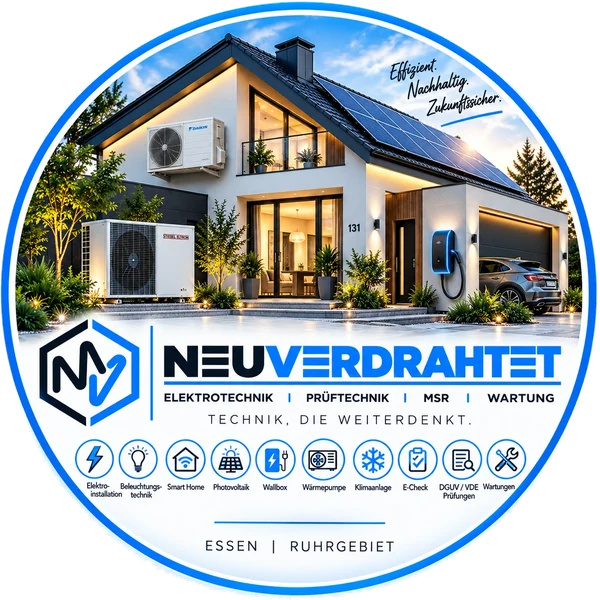
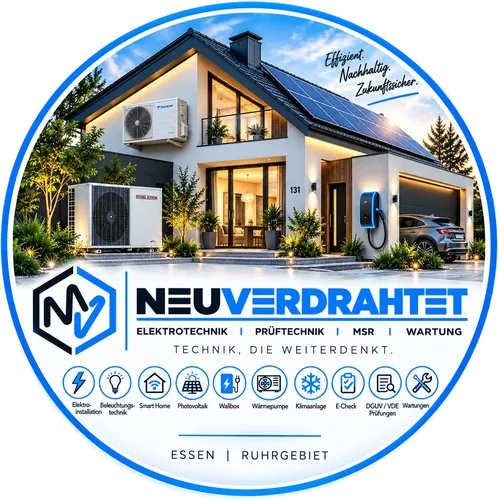
PageSpeed Insights: Accessibility 93 → 100 + Bild-Optimierung
Gegenprüfung per lokal laufendem Lighthouse (mobile) gegen den bereits
gemergten Stand ergab dieselben Werte wie der PageSpeed-Report (97/93/96/100).
Behoben:

- Farbkontrast: Cookie-Banner-Link "Datenschutzerklärung" nutzte --copper
  (3.17:1 auf dunklem Grund, WCAG AA braucht 4.5:1) — jetzt --orange-2 (5.99:1).
- Heading-Reihenfolge: hero-panel-Überschriften sprangen von h1 direkt zu h3
  (Wartung, Wärme & Klima, MSR, Prüftechnik-Detailseiten, E-Check) — jetzt h2.
  process-step-Überschriften sprangen von h2 zu h4 (Startseite, Geschäfts-/
  Privatkunden, Prüftechnik-Ablauf, Wärmepumpenwartung) — jetzt h3.
  wartungsvertraege.html hatte vor der Preistabelle (h3 je Karte) gar keine
  h2 — Section-Head "Wartungspakete im Überblick" ergänzt.
  Alle Fixes rein semantisch (h-Tag getauscht, CSS-Selektor mitgezogen) —
  keine optische Änderung.
- Bildauslieferung: neues Siegel von 600×600/106 KB auf 500×500/65 KB verkleinert
  und stärker komprimiert (Lighthouse-Audit: Est. savings 83 KiB → 42 KiB).

Ergebnis lokal verifiziert: Accessibility 93 → 100, Performance/Best
Practices/SEO unverändert bei 97/96/100 (verbleibende Performance-Punkte
betreffen HTTP-Cache-Lifetimes und Dokument-Latenz — Hosting-/Server-Ebene,
nicht per Repo-Dateien lösbar).

Claude-Session: https://claude.ai/code/session_017NiCRhzwhPUgWijeqj59Q5

diff --git a/assets/style-relaunch.css b/assets/style-relaunch.css
@@ -53,7 +53,7 @@ body { background: var(--paper); }
   display: flex; flex-direction: column; justify-content: center; gap: 14px;
 }
 .hero-panel .icon-badge { background: rgba(255,255,255,0.08); color: var(--orange-2); width: 56px; height: 56px; border-radius: 14px; display: flex; align-items: center; justify-content: center; }
-.hero-panel h3 { color: #fff; font-size: 20px; }
+.hero-panel h2 { color: #fff; font-size: 20px; }
 .hero-panel p { color: rgba(255,255,255,0.72); font-size: 14.5px; }
 
 .hub-grid { display: grid; grid-template-columns: repeat(3,1fr); gap: 18px; margin-top: 10px; }
@@ -74,7 +74,10 @@ body { background: var(--paper); }
 .process-row-n { display: grid; gap: 4px; margin-top: 32px; position: relative; }
 .process-step { position: relative; padding-top: 18px; }
 .process-step .num { font-family: var(--font-mono); font-size: 12px; color: var(--orange-2); letter-spacing: 0.05em; }
-.process-step h4 { font-size: 14.5px; margin: 8px 0 0; line-height: 1.3; }
+.process-step h3 { font-size: 14.5px; margin: 8px 0 0; line-height: 1.3; }
+/* WCAG AA-Fix: --copper hat auf dunklem Grund nur 3.17:1 Kontrast (braucht 4.5:1) —
+   betrifft global den Cookie-Banner-Link "Datenschutzerklärung" (assets/style.css). */
+.cookie-banner-inner a { color: var(--orange-2); }
 .process-row-n::before {
   content: ''; position: absolute; top: 6px; left: 3%; right: 3%; height: 1px;
   background: linear-gradient(90deg, var(--orange-2), transparent);
@@ -143,12 +146,21 @@ body { background: var(--paper); }
 .premium-card li { font-size: 13.5px; color: var(--ink-soft); }
 .premium-card .more { margin-top: auto; font-size: 13px; font-weight: 600; color: var(--orange-2); padding-top: 6px; }
 
+.elektro-row {
+  display: flex; align-items: center; justify-content: space-between; flex-wrap: wrap; gap: 16px;
+  margin-top: 20px; padding: 20px 26px;
+  background: var(--surface); border: 1px solid var(--line); border-radius: var(--radius);
+}
+.elektro-row .label { display: flex; align-items: center; gap: 12px; font-family: var(--font-display); font-weight: 600; font-size: 15.5px; }
+.elektro-row .tags { display: flex; flex-wrap: wrap; gap: 8px; }
+.elektro-row .tags span { font-family: var(--font-mono); font-size: 11.5px; color: var(--ink-soft); background: var(--surface-2); border-radius: 999px; padding: 4px 10px; }
+
 .process-row { display: grid; grid-template-columns: repeat(5,1fr); gap: 4px; margin-top: 32px; position: relative; }
 @media (max-width: 900px) { .process-row { grid-template-columns: 1fr 1fr; gap: 20px; } }
 @media (max-width: 560px) { .process-row { grid-template-columns: 1fr; } }
 .process-row .process-step { position: relative; padding-top: 18px; }
 .process-row .process-step .num { font-family: var(--font-mono); font-size: 12px; color: var(--orange-2); letter-spacing: 0.05em; }
-.process-row .process-step h4 { font-size: 15px; margin: 8px 0 0; }
+.process-row .process-step h3 { font-size: 15px; margin: 8px 0 0; }
 .process-row::before {
   content: ''; position: absolute; top: 6px; left: 5%; right: 5%; height: 1px;
   background: linear-gradient(90deg, var(--orange-2), transparent);

diff --git a/prueftechnik-maschinen.html b/prueftechnik-maschinen.html
@@ -427,7 +427,7 @@
       </div>
       <div class="hero-panel">
         <div class="icon-badge"><svg width="26" height="26" viewBox="0 0 24 24" fill="none"><circle cx="12" cy="12" r="3" stroke="currentColor" stroke-width="1.6"/><path d="M12 3v3M12 18v3M3 12h3M18 12h3M5.6 5.6l2.1 2.1M16.3 16.3l2.1 2.1M18.4 5.6l-2.1 2.1M7.7 16.3l-2.1 2.1" stroke="currentColor" stroke-width="1.6" stroke-linecap="round"/></svg></div>
-        <h3>Elektrische Sicherheit an der Maschine</h3>
+        <h2>Elektrische Sicherheit an der Maschine</h2>
         <p>Schutzmaßnahmen, Verdrahtung und Steuerung der elektrischen Ausrüstung im Blick.</p>
       </div>
     </div>
@@ -450,7 +450,7 @@
         <h2>Von der Bestandsaufnahme zur Wiederholungsprüfung</h2>
       </div>
       <div class="process-row-n" style="grid-template-columns:repeat(7,1fr);">
-        <div class="process-step"><span class="num">01</span><h4>Prüfbestand aufnehmen</h4></div><div class="process-step"><span class="num">02</span><h4>Prüfaufwand festlegen</h4></div><div class="process-step"><span class="num">03</span><h4>Termin planen</h4></div><div class="process-step"><span class="num">04</span><h4>Prüfung durchführen</h4></div><div class="process-step"><span class="num">05</span><h4>Ergebnisse dokumentieren</h4></div><div class="process-step"><span class="num">06</span><h4>Mängel ausweisen</h4></div><div class="process-step"><span class="num">07</span><h4>Wiederholungsprüfung planen</h4></div>
+        <div class="process-step"><span class="num">01</span><h3>Prüfbestand aufnehmen</h3></div><div class="process-step"><span class="num">02</span><h3>Prüfaufwand festlegen</h3></div><div class="process-step"><span class="num">03</span><h3>Termin planen</h3></div><div class="process-step"><span class="num">04</span><h3>Prüfung durchführen</h3></div><div class="process-step"><span class="num">05</span><h3>Ergebnisse dokumentieren</h3></div><div class="process-step"><span class="num">06</span><h3>Mängel ausweisen</h3></div><div class="process-step"><span class="num">07</span><h3>Wiederholungsprüfung planen</h3></div>
       </div>
       <style>@media (max-width:980px){ .process-row-n{ grid-template-columns:repeat(3,1fr) !important; gap:24px !important; } } @media (max-width:560px){ .process-row-n{ grid-template-columns:1fr !important; } }</style>
     </div>

diff --git a/prueftechnik-dguv-v3.html b/prueftechnik-dguv-v3.html
@@ -427,7 +427,7 @@
       </div>
       <div class="hero-panel">
         <div class="icon-badge"><svg width="26" height="26" viewBox="0 0 24 24" fill="none"><path d="M9 12.5 11 15l4.5-6" stroke="currentColor" stroke-width="1.6" stroke-linecap="round" stroke-linejoin="round"/><circle cx="12" cy="12" r="9" stroke="currentColor" stroke-width="1.6"/></svg></div>
-        <h3>Betreiberpflicht erfüllt</h3>
+        <h2>Betreiberpflicht erfüllt</h2>
         <p>Wiederkehrende Prüfung ortsfester und ortsveränderlicher elektrischer Anlagen, dokumentiert und terminlich im Griff.</p>
       </div>
     </div>
@@ -440,7 +440,7 @@
         <h2>Von der Bestandsaufnahme zur Wiederholungsprüfung</h2>
       </div>
       <div class="process-row-n" style="grid-template-columns:repeat(7,1fr);">
-        <div class="process-step"><span class="num">01</span><h4>Prüfbestand aufnehmen</h4></div><div class="process-step"><span class="num">02</span><h4>Prüfaufwand festlegen</h4></div><div class="process-step"><span class="num">03</span><h4>Termin planen</h4></div><div class="process-step"><span class="num">04</span><h4>Prüfung durchführen</h4></div><div class="process-step"><span class="num">05</span><h4>Ergebnisse dokumentieren</h4></div><div class="process-step"><span class="num">06</span><h4>Mängel ausweisen</h4></div><div class="process-step"><span class="num">07</span><h4>Wiederholungsprüfung planen</h4></div>
+        <div class="process-step"><span class="num">01</span><h3>Prüfbestand aufnehmen</h3></div><div class="process-step"><span class="num">02</span><h3>Prüfaufwand festlegen</h3></div><div class="process-step"><span class="num">03</span><h3>Termin planen</h3></div><div class="process-step"><span class="num">04</span><h3>Prüfung durchführen</h3></div><div class="process-step"><span class="num">05</span><h3>Ergebnisse dokumentieren</h3></div><div class="process-step"><span class="num">06</span><h3>Mängel ausweisen</h3></div><div class="process-step"><span class="num">07</span><h3>Wiederholungsprüfung planen</h3></div>
       </div>
       <style>@media (max-width:980px){ .process-row-n{ grid-template-columns:repeat(3,1fr) !important; gap:24px !important; } } @media (max-width:560px){ .process-row-n{ grid-template-columns:1fr !important; } }</style>
     </div>

diff --git a/prueftechnik-ortsfeste-anlagen.html b/prueftechnik-ortsfeste-anlagen.html
@@ -427,7 +427,7 @@
       </div>
       <div class="hero-panel">
         <div class="icon-badge"><svg width="26" height="26" viewBox="0 0 24 24" fill="none"><rect x="4" y="4" width="16" height="16" rx="2" stroke="currentColor" stroke-width="1.6"/><path d="M8 9h8M8 13h5" stroke="currentColor" stroke-width="1.6" stroke-linecap="round"/></svg></div>
-        <h3>Fest installiert, regelmäßig geprüft</h3>
+        <h2>Fest installiert, regelmäßig geprüft</h2>
         <p>Verteilungen, Stromkreise, Steckdosen und Beleuchtungsanlagen im laufenden Betrieb sicher halten.</p>
       </div>
     </div>
@@ -450,7 +450,7 @@
         <h2>Von der Bestandsaufnahme zur Wiederholungsprüfung</h2>
       </div>
       <div class="process-row-n" style="grid-template-columns:repeat(7,1fr);">
-        <div class="process-step"><span class="num">01</span><h4>Prüfbestand aufnehmen</h4></div><div class="process-step"><span class="num">02</span><h4>Prüfaufwand festlegen</h4></div><div class="process-step"><span class="num">03</span><h4>Termin planen</h4></div><div class="process-step"><span class="num">04</span><h4>Prüfung durchführen</h4></div><div class="process-step"><span class="num">05</span><h4>Ergebnisse dokumentieren</h4></div><div class="process-step"><span class="num">06</span><h4>Mängel ausweisen</h4></div><div class="process-step"><span class="num">07</span><h4>Wiederholungsprüfung planen</h4></div>
+        <div class="process-step"><span class="num">01</span><h3>Prüfbestand aufnehmen</h3></div><div class="process-step"><span class="num">02</span><h3>Prüfaufwand festlegen</h3></div><div class="process-step"><span class="num">03</span><h3>Termin planen</h3></div><div class="process-step"><span class="num">04</span><h3>Prüfung durchführen</h3></div><div class="process-step"><span class="num">05</span><h3>Ergebnisse dokumentieren</h3></div><div class="process-step"><span class="num">06</span><h3>Mängel ausweisen</h3></div><div class="process-step"><span class="num">07</span><h3>Wiederholungsprüfung planen</h3></div>
       </div>
       <style>@media (max-width:980px){ .process-row-n{ grid-template-columns:repeat(3,1fr) !important; gap:24px !important; } } @media (max-width:560px){ .process-row-n{ grid-template-columns:1fr !important; } }</style>
     </div>

diff --git a/fehlerdiagnose.html b/fehlerdiagnose.html
@@ -427,7 +427,7 @@
       </div>
       <div class="hero-panel">
         <div class="icon-badge"><svg width="26" height="26" viewBox="0 0 24 24" fill="none"><path d="M11 2a9 9 0 1 0 6.32 15.44L21 21M11 7v4l3 2" stroke="currentColor" stroke-width="1.6" stroke-linecap="round" stroke-linejoin="round"/></svg></div>
-        <h3>Ursache statt Symptom</h3>
+        <h2>Ursache statt Symptom</h2>
         <p>Strukturierte Fehlersuche auf der elektrischen und regelungstechnischen Seite der Anlage.</p>
       </div>
     </div>
@@ -440,7 +440,7 @@
         <h2>Von der Meldung zur dokumentierten Ursache</h2>
       </div>
       <div class="process-row-n" style="grid-template-columns:repeat(7,1fr);">
-        <div class="process-step"><span class="num">01</span><h4>Störungsmeldung aufnehmen</h4></div><div class="process-step"><span class="num">02</span><h4>Erstdiagnose vor Ort</h4></div><div class="process-step"><span class="num">03</span><h4>Systematische Fehlersuche</h4></div><div class="process-step"><span class="num">04</span><h4>Ursache eingrenzen</h4></div><div class="process-step"><span class="num">05</span><h4>Elektrische/regelungstechnische Prüfung</h4></div><div class="process-step"><span class="num">06</span><h4>Lösung umsetzen oder empfehlen</h4></div><div class="process-step"><span class="num">07</span><h4>Dokumentation & Rückmeldung</h4></div>
+        <div class="process-step"><span class="num">01</span><h3>Störungsmeldung aufnehmen</h3></div><div class="process-step"><span class="num">02</span><h3>Erstdiagnose vor Ort</h3></div><div class="process-step"><span class="num">03</span><h3>Systematische Fehlersuche</h3></div><div class="process-step"><span class="num">04</span><h3>Ursache eingrenzen</h3></div><div class="process-step"><span class="num">05</span><h3>Elektrische/regelungstechnische Prüfung</h3></div><div class="process-step"><span class="num">06</span><h3>Lösung umsetzen oder empfehlen</h3></div><div class="process-step"><span class="num">07</span><h3>Dokumentation & Rückmeldung</h3></div>
       </div>
       <style>@media (max-width:980px){ .process-row-n{ grid-template-columns:repeat(3,1fr) !important; gap:24px !important; } } @media (max-width:560px){ .process-row-n{ grid-template-columns:1fr !important; } }</style>
     </div>

diff --git a/prueftechnik-vde-pruefungen.html b/prueftechnik-vde-pruefungen.html
@@ -427,7 +427,7 @@
       </div>
       <div class="hero-panel">
         <div class="icon-badge"><svg width="26" height="26" viewBox="0 0 24 24" fill="none"><path d="M4 12h4l2-7 4 14 2-7h4" stroke="currentColor" stroke-width="1.6" stroke-linecap="round" stroke-linejoin="round"/></svg></div>
-        <h3>Die richtige Norm für jedes Betriebsmittel</h3>
+        <h2>Die richtige Norm für jedes Betriebsmittel</h2>
         <p>Ortsfeste Anlagen, ortsveränderliche Geräte, Maschinen und Zählerschränke — jeweils eigene Prüfnorm.</p>
       </div>
     </div>
@@ -450,7 +450,7 @@
         <h2>Von der Bestandsaufnahme zur Wiederholungsprüfung</h2>
       </div>
       <div class="process-row-n" style="grid-template-columns:repeat(7,1fr);">
-        <div class="process-step"><span class="num">01</span><h4>Prüfbestand aufnehmen</h4></div><div class="process-step"><span class="num">02</span><h4>Prüfaufwand festlegen</h4></div><div class="process-step"><span class="num">03</span><h4>Termin planen</h4></div><div class="process-step"><span class="num">04</span><h4>Prüfung durchführen</h4></div><div class="process-step"><span class="num">05</span><h4>Ergebnisse dokumentieren</h4></div><div class="process-step"><span class="num">06</span><h4>Mängel ausweisen</h4></div><div class="process-step"><span class="num">07</span><h4>Wiederholungsprüfung planen</h4></div>
+        <div class="process-step"><span class="num">01</span><h3>Prüfbestand aufnehmen</h3></div><div class="process-step"><span class="num">02</span><h3>Prüfaufwand festlegen</h3></div><div class="process-step"><span class="num">03</span><h3>Termin planen</h3></div><div class="process-step"><span class="num">04</span><h3>Prüfung durchführen</h3></div><div class="process-step"><span class="num">05</span><h3>Ergebnisse dokumentieren</h3></div><div class="process-step"><span class="num">06</span><h3>Mängel ausweisen</h3></div><div class="process-step"><span class="num">07</span><h3>Wiederholungsprüfung planen</h3></div>
       </div>
       <style>@media (max-width:980px){ .process-row-n{ grid-template-columns:repeat(3,1fr) !important; gap:24px !important; } } @media (max-width:560px){ .process-row-n{ grid-template-columns:1fr !important; } }</style>
     </div>

diff --git a/index.html b/index.html
@@ -408,7 +408,7 @@
         </div>
       </div>
       <div class="hero-badge">
-        <img src="assets/badge-siegel.webp" width="600" height="600" alt="neuverdrahtet Siegel – Elektroinstallation, Beleuchtungstechnik, Smart Home, Photovoltaik, Wallbox, Wärmepumpe, Klimaanlage, E-Check, DGUV/VDE-Prüfungen, Wartungen. Essen, Ruhrgebiet.">
+        <img src="assets/badge-siegel.webp" width="500" height="500" alt="neuverdrahtet Siegel – Elektroinstallation, Beleuchtungstechnik, Smart Home, Photovoltaik, Wallbox, Wärmepumpe, Klimaanlage, E-Check, DGUV/VDE-Prüfungen, Wartungen. Essen, Ruhrgebiet.">
       </div>
     </div>
   </section>
@@ -472,11 +472,11 @@
         <p>Bei neuverdrahtet endet technischer Service nicht mit einem Prüfprotokoll. Festgestellte elektrische oder technische Probleme können analysiert und — soweit sie in unseren Leistungsbereich fallen — anschließend fachgerecht bearbeitet werden. Dadurch erhalten Betreiber möglichst viele Leistungen über einen Ansprechpartner.</p>
       </div>
       <div class="process-row">
-        <div class="process-step"><span class="num">01</span><h4>Prüfen</h4></div>
-        <div class="process-step"><span class="num">02</span><h4>Dokumentieren</h4></div>
-        <div class="process-step"><span class="num">03</span><h4>Analysieren</h4></div>
-        <div class="process-step"><span class="num">04</span><h4>Instand setzen</h4></div>
-        <div class="process-step"><span class="num">05</span><h4>Warten</h4></div>
+        <div class="process-step"><span class="num">01</span><h3>Prüfen</h3></div>
+        <div class="process-step"><span class="num">02</span><h3>Dokumentieren</h3></div>
+        <div class="process-step"><span class="num">03</span><h3>Analysieren</h3></div>
+        <div class="process-step"><span class="num">04</span><h3>Instand setzen</h3></div>
+        <div class="process-step"><span class="num">05</span><h3>Warten</h3></div>
       </div>
     </div>
   </section>

diff --git a/geschaeftskunden.html b/geschaeftskunden.html
@@ -439,7 +439,7 @@
         <h2>Serviceprozess</h2>
       </div>
       <div class="process-row-n" style="grid-template-columns:repeat(6,1fr);">
-        <div class="process-step"><span class="num">01</span><h4>Anlage aufnehmen</h4></div><div class="process-step"><span class="num">02</span><h4>Prüf- und Wartungsbedarf ermitteln</h4></div><div class="process-step"><span class="num">03</span><h4>Termine planen</h4></div><div class="process-step"><span class="num">04</span><h4>Service durchführen</h4></div><div class="process-step"><span class="num">05</span><h4>Dokumentieren</h4></div><div class="process-step"><span class="num">06</span><h4>Folgetermine verwalten</h4></div>
+        <div class="process-step"><span class="num">01</span><h3>Anlage aufnehmen</h3></div><div class="process-step"><span class="num">02</span><h3>Prüf- und Wartungsbedarf ermitteln</h3></div><div class="process-step"><span class="num">03</span><h3>Termine planen</h3></div><div class="process-step"><span class="num">04</span><h3>Service durchführen</h3></div><div class="process-step"><span class="num">05</span><h3>Dokumentieren</h3></div><div class="process-step"><span class="num">06</span><h3>Folgetermine verwalten</h3></div>
       </div>
       <style>@media (max-width:980px){ .process-row-n{ grid-template-columns:repeat(3,1fr) !important; gap:24px !important; } } @media (max-width:560px){ .process-row-n{ grid-template-columns:1fr !important; } }</style>
     </div>

diff --git a/privatkunden.html b/privatkunden.html
@@ -450,7 +450,7 @@
         <h2>Serviceprozess</h2>
       </div>
       <div class="process-row-n" style="grid-template-columns:repeat(5,1fr);">
-        <div class="process-step"><span class="num">01</span><h4>Anfrage stellen</h4></div><div class="process-step"><span class="num">02</span><h4>Beratung & Vor-Ort-Termin</h4></div><div class="process-step"><span class="num">03</span><h4>Angebot erhalten</h4></div><div class="process-step"><span class="num">04</span><h4>Ausführung</h4></div><div class="process-step"><span class="num">05</span><h4>Abnahme & Dokumentation</h4></div>
+        <div class="process-step"><span class="num">01</span><h3>Anfrage stellen</h3></div><div class="process-step"><span class="num">02</span><h3>Beratung & Vor-Ort-Termin</h3></div><div class="process-step"><span class="num">03</span><h3>Angebot erhalten</h3></div><div class="process-step"><span class="num">04</span><h3>Ausführung</h3></div><div class="process-step"><span class="num">05</span><h3>Abnahme & Dokumentation</h3></div>
       </div>
       <style>@media (max-width:980px){ .process-row-n{ grid-template-columns:repeat(3,1fr) !important; gap:24px !important; } } @media (max-width:560px){ .process-row-n{ grid-template-columns:1fr !important; } }</style>
     </div>

diff --git a/prueftechnik-ortsveraenderliche-betriebsmittel.html b/prueftechnik-ortsveraenderliche-betriebsmittel.html
@@ -456,7 +456,7 @@
       </div>
       <div class="hero-panel">
         <div class="icon-badge"><svg width="26" height="26" viewBox="0 0 24 24" fill="none"><rect x="4" y="7" width="16" height="12" rx="2" stroke="currentColor" stroke-width="1.6"/><path d="M9 7V5a1 1 0 0 1 1-1h4a1 1 0 0 1 1 1v2" stroke="currentColor" stroke-width="1.6"/><path d="M9 13l2 2 4-4" stroke="currentColor" stroke-width="1.6" stroke-linecap="round" stroke-linejoin="round"/></svg></div>
-        <h3>Sicherheit nachgewiesen</h3>
+        <h2>Sicherheit nachgewiesen</h2>
         <p>Prüfung nach VDE 0701-0702 mit vollständiger Dokumentation.</p>
       </div>
     </div>

diff --git a/klimaanlagenwartung.html b/klimaanlagenwartung.html
@@ -427,7 +427,7 @@
       </div>
       <div class="hero-panel">
         <div class="icon-badge"><svg width="26" height="26" viewBox="0 0 24 24" fill="none"><path d="M12 2v20M4.2 6l15.6 12M19.8 6 4.2 18" stroke="currentColor" stroke-width="1.6" stroke-linecap="round"/><circle cx="12" cy="12" r="2.6" fill="currentColor"/></svg></div>
-        <h3>Elektrisch, regelungstechnisch &amp; Kältekreislauf</h3>
+        <h2>Elektrisch, regelungstechnisch &amp; Kältekreislauf</h2>
         <p>Prüfung, Kontrolle und Fehlerdiagnose an der Anlage — inklusive Kältemittelkreislauf durch zertifizierten Kälteschein.</p>
       </div>
     </div>

diff --git a/wartung-service.html b/wartung-service.html
@@ -427,7 +427,7 @@
       </div>
       <div class="hero-panel">
         <div class="icon-badge"><svg width="26" height="26" viewBox="0 0 24 24" fill="none"><path d="M12 3v3M12 18v3M3 12h3M18 12h3M5.6 5.6l2.1 2.1M16.3 16.3l2.1 2.1M18.4 5.6l-2.1 2.1M7.7 16.3l-2.1 2.1" stroke="currentColor" stroke-width="1.6" stroke-linecap="round"/><circle cx="12" cy="12" r="3.4" stroke="currentColor" stroke-width="1.6"/></svg></div>
-        <h3>Planbar statt reaktiv</h3>
+        <h2>Planbar statt reaktiv</h2>
         <p>Wiederkehrende Wartung reduziert Ausfallrisiko und macht technische Probleme früh sichtbar.</p>
       </div>
     </div>
